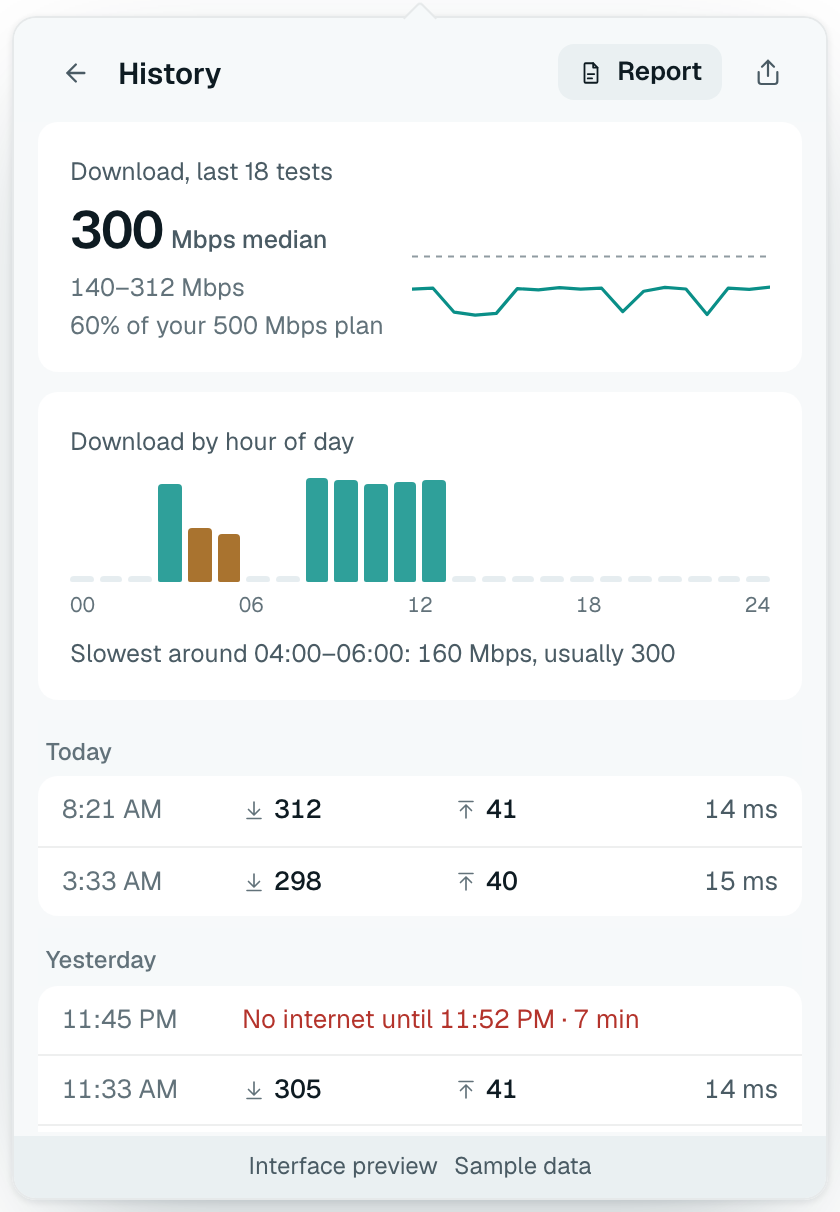
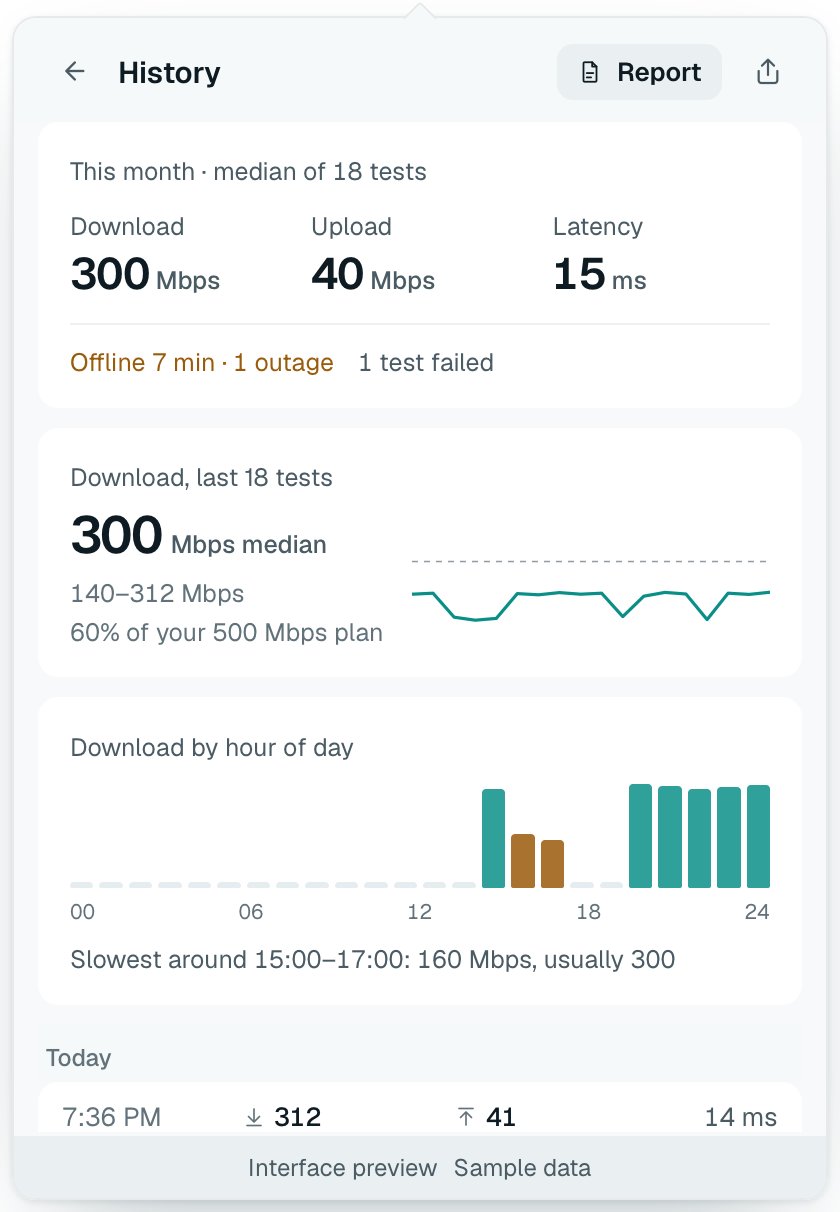
feat(history): sum up this month at the top of History
Adds a card with the calendar month's median download, upload and
latency, the time offline across outages inside the month, failed
tests, and last month's download to compare. Until the new month has
a test it shows last month under its name. With the outage watch off
it says so instead of claiming no outages. Medians match the rest of
History and the provider report; the screenshot is refreshed with a
fixed mid-month date.

diff --git a/tests/unit/month.test.ts b/tests/unit/month.test.ts
@@ -1,0 +1,71 @@
+import assert from 'node:assert/strict'
+import { test } from 'node:test'
+import { monthSummary, outageText } from '../../src/lib/month.ts'
+import { demoReport } from '../../src/lib/demo.ts'
+import type { Entry } from '../../src/lib/model.ts'
+
+const minute = 60_000
+const at = (month: number, day: number, down: number, up = 40, latency = 14): Entry => {
+  const report = demoReport(0)
+  report.startedAtMs = new Date(2026, month, day, 12).getTime()
+  report.download = { ...report.download, mbps: down }
+  report.upload = report.upload && { ...report.upload, mbps: up }
+  report.latency = report.latency && { ...report.latency, medianMs: latency }
+  return { kind: 'result', report }
+}
+const now = new Date(2026, 10, 20, 9).getTime()
+
+test('medians of this month, compared with last month', () => {
+  const entries: Entry[] = [
+    at(10, 18, 300, 40, 14), at(10, 10, 280, 38, 16), at(10, 3, 150, 30, 30),
+    { kind: 'failed', atMs: new Date(2026, 10, 5).getTime(), error: 'stalled' },
+    at(9, 20, 250), at(9, 12, 270),
+  ]
+  const summary = monthSummary(entries, now)!
+  assert.equal(summary.name, null)
+  assert.equal(summary.tests, 3)
+  assert.equal(summary.failed, 1)
+  assert.equal(summary.download, 280)
+  assert.equal(summary.upload, 38)
+  assert.equal(summary.latency, 16)
+  assert.equal(summary.before, 260)
+})
+
+test('outages count only their time inside the month', () => {
+  const first = new Date(2026, 10, 1).getTime()
+  const entries: Entry[] = [
+    at(10, 18, 300),
+    { kind: 'outage', startMs: new Date(2026, 10, 12, 14, 2).getTime(), endMs: new Date(2026, 10, 12, 14, 9).getTime() },
+    { kind: 'outage', startMs: first - 10 * minute, endMs: first + 50 * minute },
+    { kind: 'outage', startMs: first - 90 * minute, endMs: first - 30 * minute },
+  ]
+  const summary = monthSummary(entries, now)!
+  assert.equal(summary.outages, 2)
+  assert.equal(summary.outageMs, 57 * minute)
+  assert.equal(outageText(summary, true), 'Offline 57 min · 2 outages')
+  summary.outageMs = 125 * minute
+  assert.equal(outageText(summary, true), 'Offline 2 h 5 min · 2 outages')
+})
+
+test('says whether no outages means none were seen', () => {
+  const summary = monthSummary([at(10, 18, 300)], now)!
+  assert.equal(outageText(summary, true), 'No outages seen')
+  assert.equal(outageText(summary, false), 'Outage watch is off')
+})
+
+test('falls back to last month until this month has a test', () => {
+  const summary = monthSummary([at(9, 20, 250), at(8, 2, 200)], now)!
+  assert.equal(summary.name, new Date(2026, 9, 1).toLocaleDateString([], { month: 'long' }))
+  assert.equal(summary.download, 250)
+  assert.equal(summary.before, 200)
+  assert.equal(monthSummary([at(8, 2, 200)], now), null)
+  assert.equal(monthSummary([], now), null)
+})
+
+test('January compares with December of the year before', () => {
+  const january = new Date(2027, 0, 15).getTime()
+  const entries: Entry[] = [at(12, 10, 310), at(11, 10, 290)]
+  const summary = monthSummary(entries, january)!
+  assert.equal(summary.download, 310)
+  assert.equal(summary.before, 290)
+})

diff --git a/src/lib/month.ts b/src/lib/month.ts
@@ -1,0 +1,63 @@
+import { entryTime, type Entry } from './model.ts'
+
+export interface MonthSummary {
+  /** `null` for the current month, else the month's name, e.g. "October". */
+  name: string | null
+  tests: number
+  failed: number
+  download: number | null
+  upload: number | null
+  latency: number | null
+  /** Outage time inside the month; an outage that started earlier counts from the 1st. */
+  outageMs: number
+  outages: number
+  /** Median download of the month before, to compare against. */
+  before: number | null
+}
+
+function median(values: number[]): number | null {
+  if (!values.length) return null
+  const sorted = [...values].sort((a, b) => a - b)
+  const middle = Math.floor(sorted.length / 2)
+  return sorted.length % 2 ? sorted[middle]! : (sorted[middle - 1]! + sorted[middle]!) / 2
+}
+
+function bounds(now: number, back: number): [number, number] {
+  const date = new Date(now)
+  return [new Date(date.getFullYear(), date.getMonth() - back, 1).getTime(), new Date(date.getFullYear(), date.getMonth() - back + 1, 1).getTime()]
+}
+
+function month(entries: Entry[], from: number, to: number) {
+  const inside = entries.filter(entry => entry.kind === 'outage' ? entry.endMs > from && entry.startMs < to : entryTime(entry) >= from && entryTime(entry) < to)
+  const reports = inside.flatMap(entry => entry.kind === 'result' ? [entry.report] : [])
+  const outages = inside.flatMap(entry => entry.kind === 'outage' ? [Math.min(entry.endMs, to) - Math.max(entry.startMs, from)] : [])
+  return {
+    tests: reports.length,
+    failed: inside.filter(entry => entry.kind === 'failed').length,
+    download: median(reports.map(report => report.download.mbps)),
+    upload: median(reports.flatMap(report => report.upload ? [report.upload.mbps] : [])),
+    latency: median(reports.flatMap(report => report.latency ? [report.latency.medianMs] : [])),
+    outageMs: outages.reduce((sum, ms) => sum + ms, 0),
+    outages: outages.length,
+  }
+}
+
+/** Medians for this calendar month; last month instead while this one has no tests yet. */
+export function monthSummary(entries: Entry[], now: number): MonthSummary | null {
+  const [thisFrom, thisTo] = bounds(now, 0)
+  const [lastFrom, lastTo] = bounds(now, 1)
+  const [olderFrom] = bounds(now, 2)
+  const current = month(entries, thisFrom, thisTo)
+  const last = month(entries, lastFrom, lastTo)
+  if (current.tests) return { name: null, ...current, before: last.download }
+  if (!last.tests) return null
+  const name = new Date(lastFrom).toLocaleDateString([], { month: 'long' })
+  return { name, ...last, before: month(entries, olderFrom, lastFrom).download }
+}
+
+export function outageText(summary: MonthSummary, watching: boolean): string {
+  if (!summary.outages) return watching ? 'No outages seen' : 'Outage watch is off'
+  const minutes = Math.max(1, Math.ceil(summary.outageMs / 60_000))
+  const time = minutes < 60 ? `${minutes} min` : `${Math.floor(minutes / 60)} h ${minutes % 60} min`
+  return `Offline ${time} · ${summary.outages} ${summary.outages === 1 ? 'outage' : 'outages'}`
+}

diff --git a/src/components/HistoryView.vue b/src/components/HistoryView.vue
@@ -5,8 +5,9 @@ import AppTooltip from './ui/AppTooltip.vue'
 import { errorCopy, formatMbps, formatMs } from '../lib/format'
 import { entryTime, type Entry } from '../lib/model'
 import { hourLabel, slowHours } from '../lib/hours'
+import { monthSummary, outageText } from '../lib/month'
 
-const props = defineProps<{ entries: Entry[]; now: number; planMbps?: number | null }>()
+const props = defineProps<{ entries: Entry[]; now: number; planMbps?: number | null; watching?: boolean }>()
 defineEmits<{ back: []; export: []; report: [] }>()
 
 const results = computed(() => props.entries.flatMap(entry => entry.kind === 'result' ? [entry.report] : []))
@@ -18,6 +19,7 @@ const median = computed(() => {
   const middle = Math.floor(values.length / 2)
   return values.length % 2 ? values[middle]! : (values[middle - 1]! + values[middle]!) / 2
 })
+const month = computed(() => monthSummary(props.entries, props.now))
 const hours = computed(() => slowHours(props.entries))
 const tallest = computed(() => Math.max(1, ...(hours.value?.buckets.map(bucket => bucket.median ?? 0) ?? [1])))
 const isSlow = (hour: number) => {
@@ -88,6 +90,29 @@ function time(at: number): string {
     </section>
 
     <template v-else>
+      <section v-if="month" class="card month-card" aria-labelledby="month-title">
+        <p id="month-title" class="label num">{{ month.name ?? 'This month' }} · {{ month.tests === 1 ? 'one test' : `median of ${month.tests} tests` }}</p>
+        <div class="month-stats">
+          <div class="stat">
+            <p class="label">Download</p>
+            <p class="value num">{{ month.download === null ? '–' : formatMbps(month.download) }}<small>Mbps</small></p>
+          </div>
+          <div class="stat">
+            <p class="label">Upload</p>
+            <p class="value num">{{ month.upload === null ? '–' : formatMbps(month.upload) }}<small>Mbps</small></p>
+          </div>
+          <div class="stat">
+            <p class="label">Latency</p>
+            <p class="value num">{{ month.latency === null ? '–' : formatMs(month.latency) }}<small>ms</small></p>
+          </div>
+        </div>
+        <ul class="month-notes num">
+          <li :class="{ 'month-offline': month.outages }">{{ outageText(month, watching ?? false) }}</li>
+          <li v-if="month.failed">{{ month.failed }} {{ month.failed === 1 ? 'test' : 'tests' }} failed</li>
+          <li v-if="month.before !== null">{{ month.name ? 'Month before' : 'Last month' }} {{ formatMbps(month.before) }} Mbps</li>
+        </ul>
+      </section>
+
       <section v-if="median !== null" class="card history-summary" aria-label="Download over recent tests">
         <div class="summary-text">
           <p class="label">Download, last {{ recent.length }} tests</p>

diff --git a/tests/e2e/popover.spec.ts b/tests/e2e/popover.spec.ts
@@ -131,6 +131,7 @@ for (const [error, title] of Object.entries(failures)) {
 
 for (const theme of themes) {
   test(`history lists tests by day with a summary in ${theme}`, async ({ page }, info) => {
+    await page.clock.setFixedTime(new Date(2026, 10, 20, 20, 0))
     await page.goto(`/?demo=1&theme=${theme}`)
     await page.getByRole('button', { name: 'History' }).click()
     await expect(page.getByRole('heading', { name: 'History' })).toBeVisible()
@@ -252,6 +253,23 @@ test('history shows download by hour of day', async ({ page }) => {
   await expect(page.getByText('Download by hour of day')).toBeVisible()
   await expect(page.locator('.hour-bar')).toHaveCount(24)
   await expect(page.locator('.hours-card .sub')).toContainText(/Slowest around|No hour stands out/)
+})
+
+test('history sums up this month with outage time', async ({ page }) => {
+  await page.clock.install({ time: new Date(2026, 10, 20, 20, 0) })
+  await page.goto('/?demo=1&page=history')
+  const card = page.getByRole('region', { name: /^This month · median of 18 tests$/ })
+  await expect(card).toBeVisible()
+  await expect(card.getByText(/^\d+Mbps$/)).toHaveCount(2)
+  await expect(card.getByText('Offline 7 min · 1 outage')).toBeVisible()
+  await expect(card.getByText('1 test failed')).toBeVisible()
+})
+
+test('early in a month, history sums up the month before', async ({ page }) => {
+  await page.clock.install({ time: new Date(2026, 11, 1, 0, 5) })
+  await page.goto('/?demo=1&page=history')
+  await expect(page.getByRole('region', { name: /^November · median of 18 tests$/ })).toBeVisible()
+  await expect(page.getByText(/^Month before/)).toHaveCount(0)
 })
 
 test('outages appear in history with their length', async ({ page }) => {

diff --git a/src/App.vue b/src/App.vue
@@ -163,7 +163,7 @@ onUnmounted(() => {
           <p v-if="connectionError" class="connection-error" role="alert">{{ connectionError }}</p>
           <p v-if="view.notice" class="notice" role="status">{{ view.notice }}</p>
           <DiagnoseView v-if="page === 'diagnose'" :diagnosis="view.diagnosis" :checking="view.checking" :now="now" @back="page = 'overview'" @check="checkConnection"/>
-          <HistoryView v-else-if="page === 'history'" :entries="history" :now="now" :plan-mbps="view.settings.planDownloadMbps" @back="page = 'overview'" @export="exportHistory" @report="exportReport"/>
+          <HistoryView v-else-if="page === 'history'" :entries="history" :now="now" :plan-mbps="view.settings.planDownloadMbps" :watching="view.settings.watchOutages" @back="page = 'overview'" @export="exportHistory" @report="exportReport"/>
           <SettingsPanel v-else-if="page === 'settings'" :settings="view.settings" :estimate-mb="view.estimate.mb" :last-test-ms="lastTestMs" :now="now" :metered="Boolean(view.network.metered)" :history-count="view.historyCount" :update-state="updater.state.value" :update-busy="updater.busy.value" :demo="demo" @back="page = 'overview'" @save="saveSettings" @export="exportHistory" @report="exportReport" @clear="clearHistory" @check-update="updater.check" @install-update="updater.install"/>
           <TestingView v-else-if="view.testing" :progress="view.testing" :samples="samples" @cancel="cancel"/>
           <ResultView v-else :view="view" :now="now" :update-available="updater.available.value" :confirming="confirming" @test="start" @dismiss="confirming = false" @history="page = 'history'" @settings="page = 'settings'" @check="openCheck" @copy="copy"/>

diff --git a/src/styles.css b/src/styles.css
@@ -623,6 +623,29 @@ button:focus-visible, a:focus-visible, input:focus-visible, select:focus-visible
   font-size: 15px;
   font-weight: 600;
 }
+.month-stats {
+  display: grid;
+  grid-template-columns: repeat(3, 1fr);
+  gap: 12px;
+  margin-top: 10px;
+}
+.month-notes {
+  display: flex;
+  flex-wrap: wrap;
+  gap: 2px 12px;
+  margin: 12px 0 0;
+  padding: 10px 0 0;
+  border-top: 1px solid var(--line);
+  list-style: none;
+  font-size: 12.5px;
+  color: var(--secondary);
+}
+.month-offline {
+  color: var(--warning);
+}
+.month-card + .history-summary {
+  margin-top: 10px;
+}
 .history-summary {
   display: flex;
   align-items: flex-end;

diff --git a/README.md b/README.md
@@ -43,7 +43,7 @@ Builds are not signed with an Apple Developer ID or a Windows publisher certific
 <p>
   <img src="docs/images/meaning-light.png" alt="Verdict expanded into video, calls, games and under-load lines" width="300" />
   <img src="docs/images/check-light.png" alt="Connection check: Wi-Fi and router fine, DNS and Cloudflare failing, with the sentence Your Wi-Fi is fine. The problem is past your router." width="300" />
-  <img src="docs/images/history-light.png" alt="History with the median, download by hour of day and an outage row" width="300" />
+  <img src="docs/images/history-light.png" alt="History with this month's download, upload, latency and outage time, the recent median, download by hour of day" width="300" />
 </p>
 
 - **Result.** Download in large type; upload; idle latency and latency under load; the server, for example "Tested 12 min ago · Cloudflare, Frankfurt".
@@ -55,6 +55,7 @@ Builds are not signed with an Apple Developer ID or a Windows publisher certific
 - **Check connection.** Wi-Fi signal, router round trip, DNS lookup time and whether Cloudflare answers, each in plain words, about 10 kB, no speed test. Weir never reads your Wi-Fi name.
 - **Scheduled tests, if you want them.** Settings → Scheduled tests (off by default) runs a full test every 6 or 12 hours or once a day, shows the data it will use each month, and waits whenever you're on a hotspot, a metered connection, Low Data Mode or Low Power Mode. Scheduled results are marked with a clock in History.
 - **Outages, if you want them.** Settings → Outages → Watch for outages (off by default) sends one tiny request a minute, records "No internet until 14:09 · 7 min" in History, and can notify you when the connection drops and returns.
+- **This month.** The top of History shows the month's median download, upload and latency, how long you were offline, failed tests, and last month's download to compare.
 - **History.** Every test for a year, by day, with the median and range, download by hour of day and the slowest hours named. **Export CSV** from History or Settings, for a spreadsheet.
 - **Report for your provider.** **Report** in History saves a PDF of the last 30 days: medians against your plan, how often it fell under half, slow hours, outages, a chart and every test. [What's in it](docs/method.md#provider-report).
 

diff --git a/docs/method.md b/docs/method.md
@@ -132,6 +132,15 @@ Optional, in Settings → Your plan: the download and upload speeds the provider
 - Shown under the download number, under Upload, in History (median of recent tests) and in the tray tooltip. It never changes the plain-meaning verdict, which is about what the line is good for, not what it costs.
 - Wi-Fi often caps a fast plan. A low share on Wi-Fi is a reason to test on a cable before calling the provider.
 
+## This month
+
+The first card in History ([`month.ts`](../src/lib/month.ts)):
+
+- The calendar month in local time. Download, upload and idle latency are medians of that month's results, like everything else here; an average would let one bad test drag the number.
+- Offline time adds up outages that overlap the month, counting only the part inside it. With the outage watch off and nothing recorded it says "Outage watch is off", not "No outages".
+- Failed tests are counted, never averaged in. Last month's median download is shown beside it to compare.
+- Until the new month has a test, the card shows last month under its name, so the 1st doesn't open on an empty card.
+
 ## Provider report
 
 **Report** in History (or Settings → History → Save PDF) writes an A4 PDF of the last 30 days, built in Rust ([`report.rs`](../src-tauri/src/core/report.rs)) with the PDF's built-in Helvetica, so no fonts are embedded and nothing is fetched.
